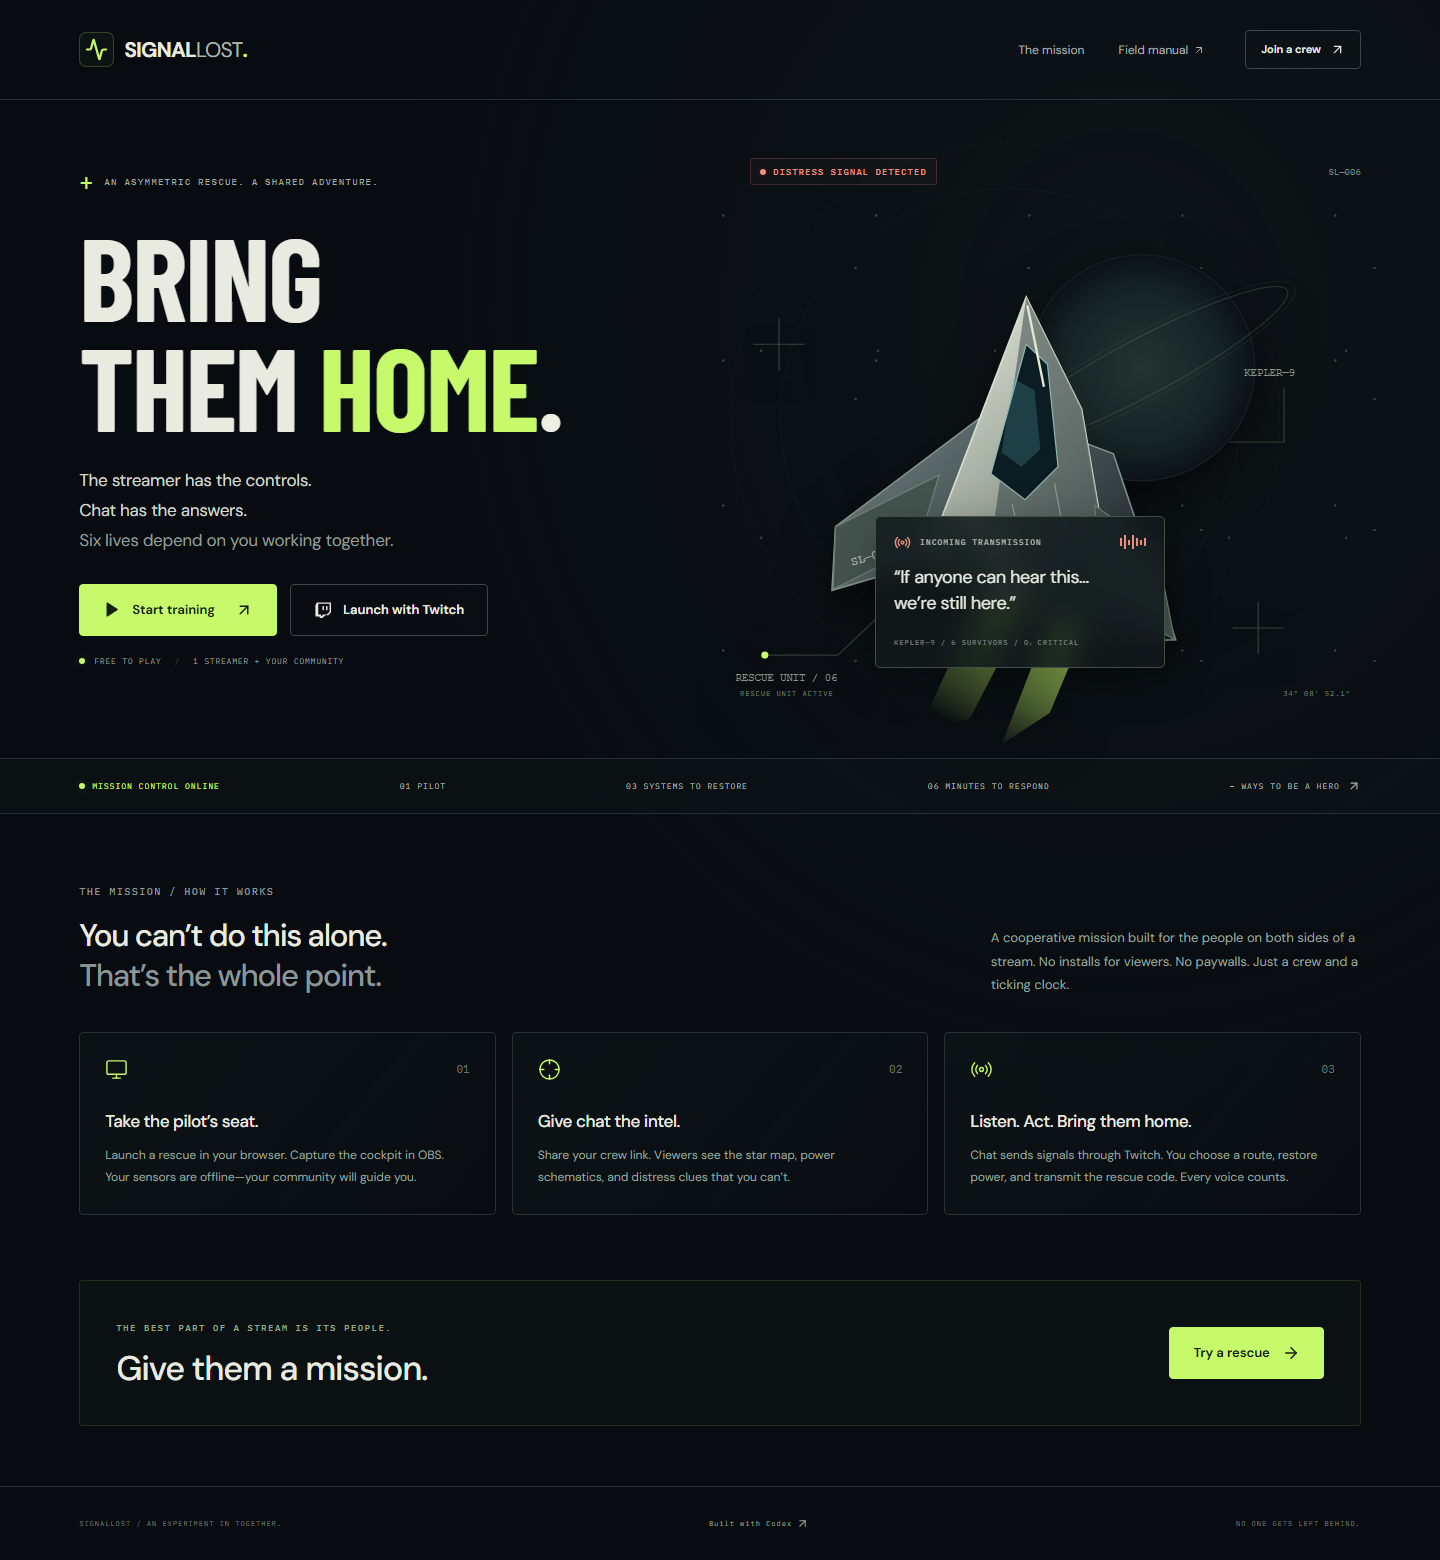
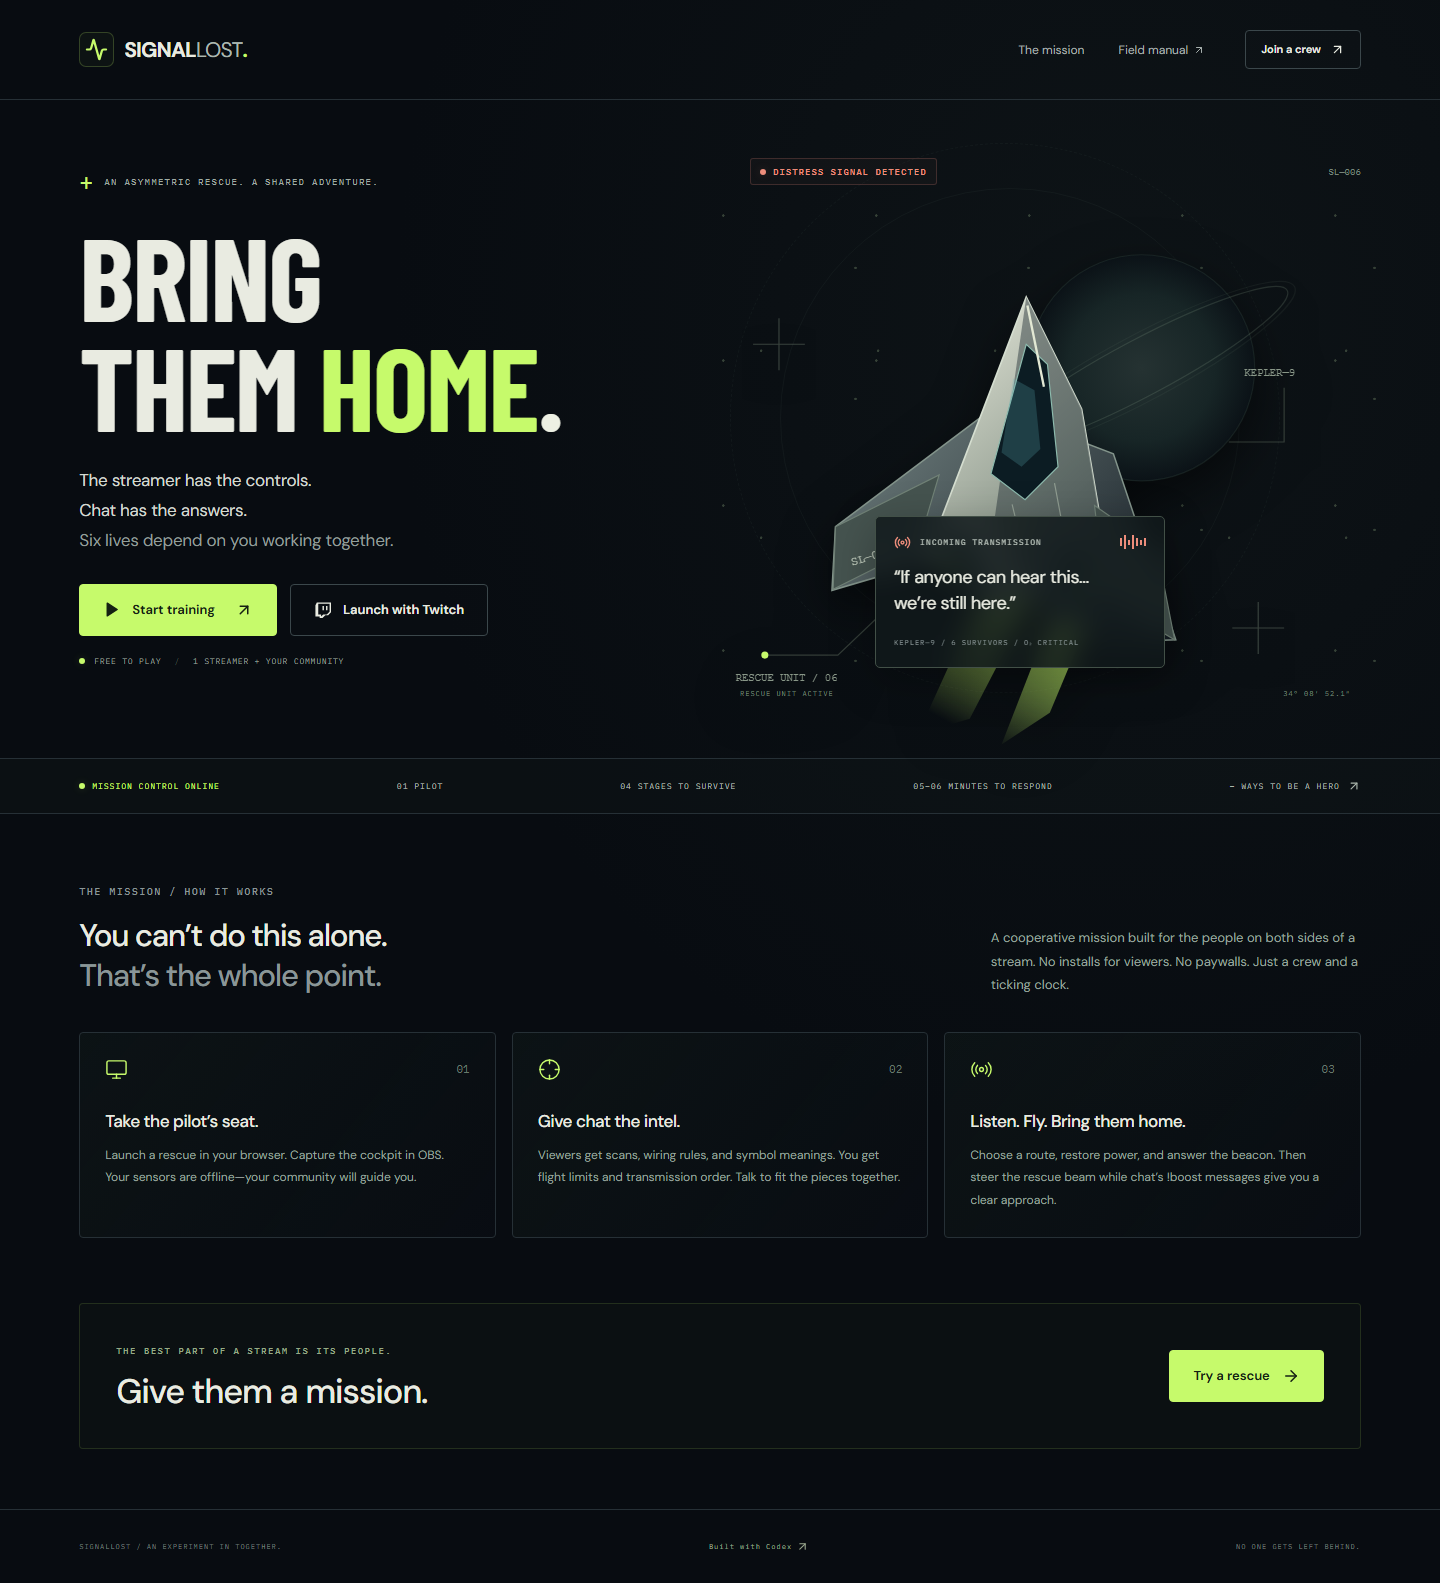
docs: publish verified quality review and refreshed mission screenshots

diff --git a/docs/VALIDATION.md b/docs/VALIDATION.md
@@ -1,46 +1,52 @@
 # Validation record
 
-Validated on October 27, 2026 locally using Windows, Node.js 24.19.0, and Playwright Chromium, and in GitHub Actions using Ubuntu and Node.js 24.
+The quality-upgraded application passed on October 27, 2026 in [GitHub CI run 40552524553](https://github.com/arnavgupta2004/SignalLost/actions/runs/40552524553), application commit `1d98194eccb19bfd171bf67283b89eb022c2f2c2`.
 
-The complete final application run passed: [GitHub CI run 40521582904](https://github.com/arnavgupta2004/SignalLost/actions/runs/40521582904), application commit `bcc77c09279c05aedb3639e6513755f429613dd2`.
+Local verification used Windows, Node.js 24.19.0, and Playwright Chromium. CI used Ubuntu, Node.js 24, and the production Node 24 Alpine Docker image.
 
-| Check                                    | Result                                                                   |
-| ---------------------------------------- | ------------------------------------------------------------------------ |
-| TypeScript type checking                 | Passed                                                                   |
-| Vite production build                    | Passed                                                                   |
-| Mission-engine tests                     | 12 passed                                                                |
-| Twitch OAuth/EventSub fixture tests      | 5 passed                                                                 |
-| Browser integration tests                | 11 passed                                                                |
-| Public-registry dependency audits        | 0 reported vulnerabilities in CI, including production-only dependencies |
-| Clean production-only installation       | Startup, frontend serving, and room creation passed                      |
-| Production Docker image build            | Passed in GitHub CI                                                      |
-| Production container health and frontend | Passed in GitHub CI                                                      |
-| Rendered interface inspection            | Homepage, cockpit, and crew panel checked                                |
-| Original application screenshots         | Captured in `docs/images/`                                               |
+| Check                                                         | Result                                                                     |
+| ------------------------------------------------------------- | -------------------------------------------------------------------------- |
+| Strict TypeScript compilation and unused-code checks          | Passed                                                                     |
+| Source formatting                                             | Passed                                                                     |
+| Portable public-registry dependency URLs and integrity hashes | Passed                                                                     |
+| Vite production build                                         | Passed                                                                     |
+| Mission-engine tests                                          | 23 passed                                                                  |
+| Twitch OAuth/EventSub fixture tests                           | 5 passed                                                                   |
+| Browser integration tests                                     | 13 passed                                                                  |
+| Total automated tests                                         | **41 passed**                                                              |
+| Public-registry dependency audits                             | **0 reported vulnerabilities**, including production-only dependencies     |
+| Production Docker image build                                 | Passed                                                                     |
+| Container health and frontend responses                       | Passed                                                                     |
+| Original rendered interface inspection                        | Homepage, cockpit, Commander intel, docking, and crew-home debrief checked |
+| Updated application screenshots                               | Captured in `docs/images/`                                                 |
+| Private training rehearsal                                    | Completed; playable 21-second 1440 × 1080 WebM, with training/SIM labels   |
 
-Browser tests verify a complete rescue synchronizes across cockpit, viewer intel, and OBS. They also cover simulated crew labels and readback, pilot authorization, pause and reload, damage and restart, unknown rooms, OAuth state rejection, mobile overflow, transparent overlays, bounded request bodies, protected Twitch management, and keyboard focus while joining a crew by room code.
+## What the tests establish
 
-Protocol fixtures verify the OAuth code exchange, chat permission checks, EventSub subscription condition, message deduplication, session migration without duplicate subscriptions, and revocation handling.
+The browser suite completes both Cadet and Commander rescues through navigation, engineering, symbol decoding, and keyboard-controlled extraction. It checks complementary Commander information, retained crew preparations, mobile pointer capture and release, pilot-disconnect disarming, unauthorized cockpit access, pause/reload, damage/restart, room errors, OAuth state rejection, transparent overlays, bounded JSON requests, protected Twitch management, and room-code typing focus.
 
-## Pending live checks
+Mission tests check uniquely solvable wiring and navigation, distinct Commander symbols and a non-default transmission order, authoritative time and heat, correct docking alignment, one cell per viewer and three per mission, exactly six seconds of stabilization, pause behavior, and flight-recorder timing independent of oxygen penalties. Live missions wait for a connected Twitch uplink before launch; training remains available without credentials.
 
-- Connect the entrant's real Twitch app and broadcaster account, then verify a real chat command appears with the TWITCH label.
-- Deploy at a public HTTPS address and verify crew access from another device.
-- Record and upload the publicly visible YouTube demonstration showing real Twitch functionality and the actual Codex build session.
+Protocol fixtures verify code exchange, chat permission checks, the EventSub subscription condition, message deduplication, session migration without duplicate subscriptions, and revocation handling.
+
+## Final gate before submission
+
+- Authorize the entrant's real Twitch app and broadcaster account.
+- Confirm a real viewer's `!dock` and `!boost` arrive with the **TWITCH** label and affect extraction.
+- Verify the public HTTPS crew link from another device.
+- Record real Twitch functionality and the genuine Codex thread, then upload the demonstration publicly on YouTube.
 - If the repository stays private, share it with `testing@devpost.com` for judge access.
 
-The local Docker daemon was unavailable; the image was instead built and started successfully in GitHub CI.
-
-Automated fixture tests establish implementation behavior; they do not establish that a live Twitch authorization or public deployment has occurred.
+The local rehearsal and protocol fixtures establish product behavior; they do not establish that a live Twitch session or public deployment has occurred. The quality review and recording plan are in `QUALITY_REVIEW.md` and `DEMO_SCRIPT.md`.
 
 ## Reproduce
 
 ```sh
 npm ci
+npm run format:check
 npm run check
 npx playwright install chromium
 npm run test:e2e
-npm audit --omit=dev
 ```
 
 For screenshots, start a production server on port 4317 and run:
@@ -49,4 +55,4 @@ For screenshots, start a production server on port 4317 and run:
 node scripts/capture.mjs
 ```
 
-Set `CAPTURE_URL` to use another application URL. Screenshots of training mode are examples of the interface, not proof of live Twitch participation.
+Set `CAPTURE_URL` to use another application URL. Set `CAPTURE_VIDEO=1` to record a private training rehearsal under `.local/`; screenshot exports run separately to avoid simultaneous Chromium capture conflicts.

diff --git a/README.md b/README.md
@@ -94,7 +94,7 @@ npm run test:e2e
 
 Browser tests start a production server on port 4317 to avoid conflicting with normal development. Twitch protocol tests use fixtures; a live broadcaster session must be verified with your own Twitch app before submission.
 
-The expanded game passes **41 local automated tests**, including complete Cadet and Commander keyboard playthroughs, mobile pointer release, uniquely solvable puzzles, limited boosts, and disconnect safety. The initial release also passed a production Docker build/startup check in [GitHub CI](https://github.com/arnavgupta2004/SignalLost/actions/runs/40521582904). The expanded version's CI verification is tracked in the [validation record](docs/VALIDATION.md).
+The quality-upgraded application passed **41 automated tests** and a production Docker build/startup check in [GitHub CI](https://github.com/arnavgupta2004/SignalLost/actions/runs/40552524553). Public-registry audits reported zero vulnerabilities. See the [validation record](docs/VALIDATION.md) and [judging-focused quality review](docs/QUALITY_REVIEW.md).
 
 `npm run format:check` and `npm run check:portability` keep the source reviewable and dependency installation portable.
 
